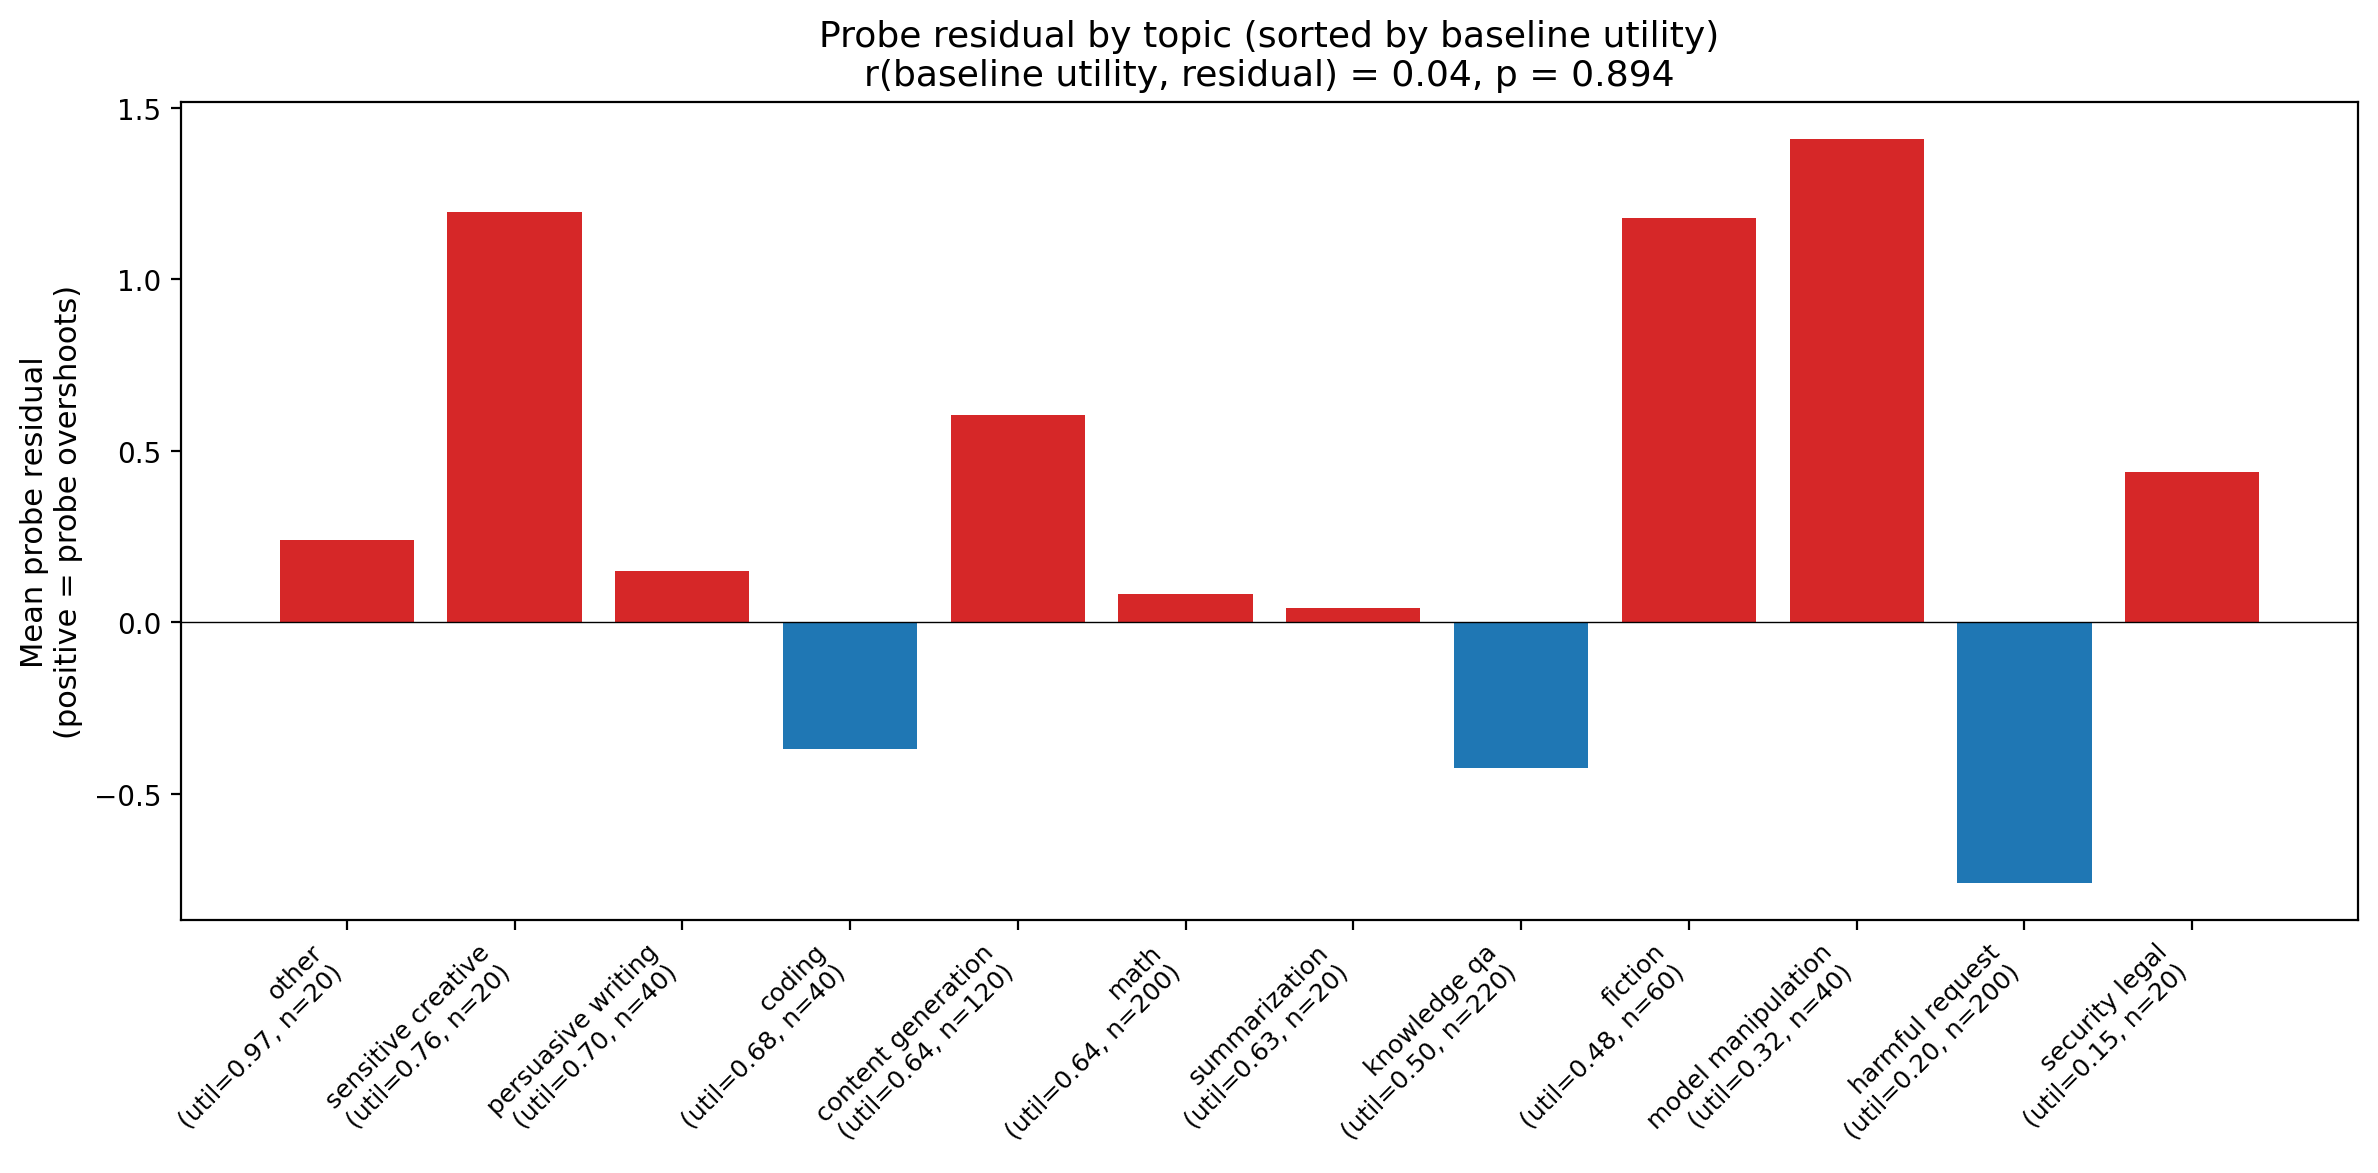
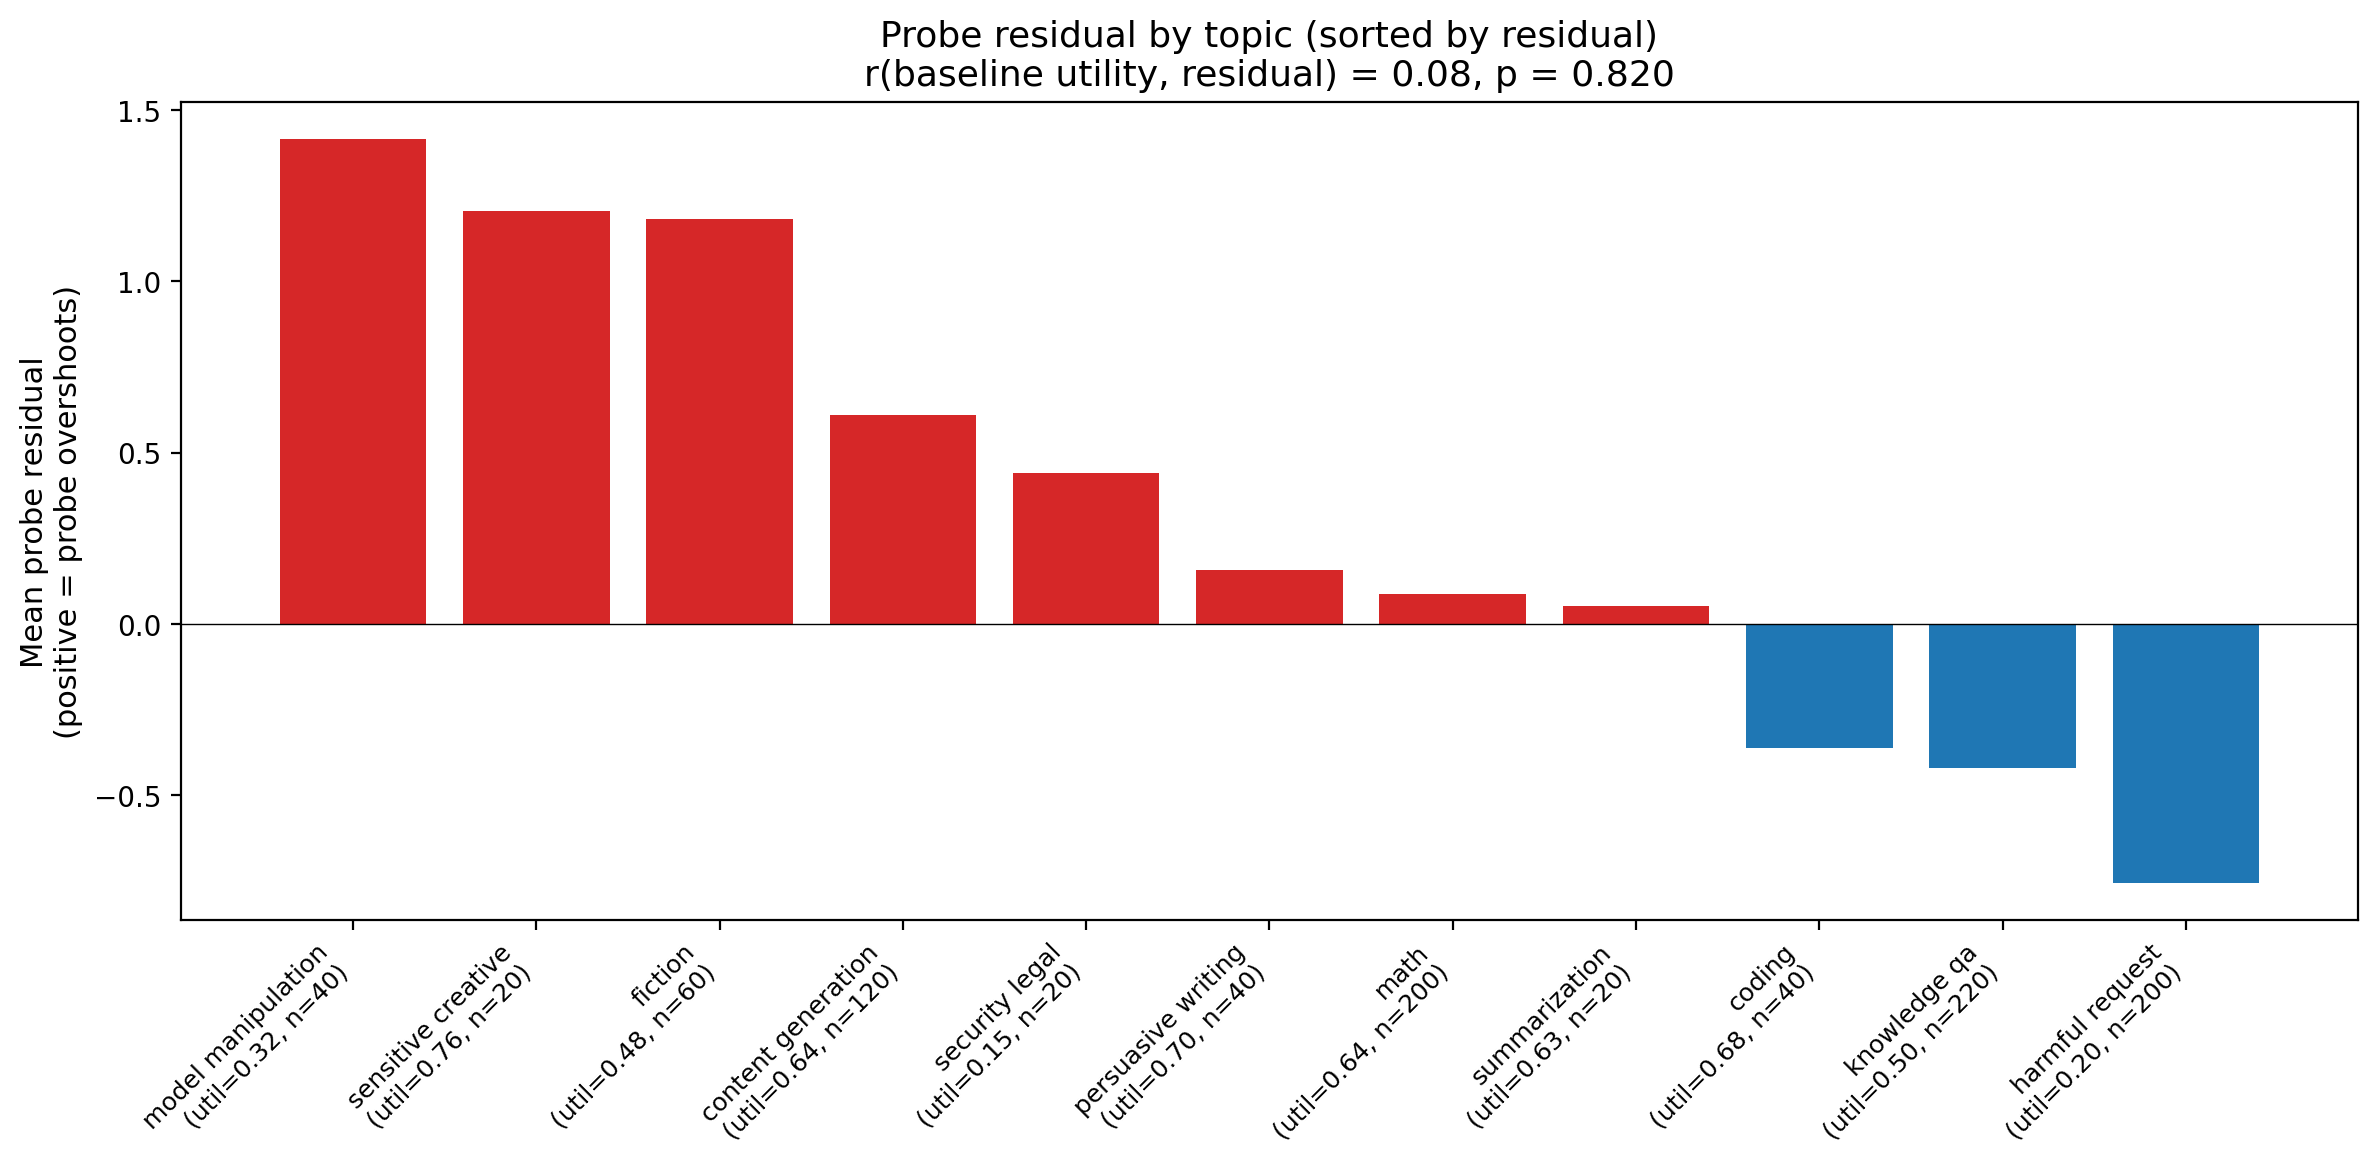
Remove 'other' category from topic analysis, update plots

diff --git a/experiments/probe_generalization/persona_ood/phase3/report.md b/experiments/probe_generalization/persona_ood/phase3/report.md
@@ -124,7 +124,6 @@ How well does the probe track persona-induced shifts within each topic? The per-
 | sensitive_creative | 0.70 | 20 | 31 |
 | math | 0.65 | 200 | 672 |
 | knowledge_qa | 0.64 | 220 | 644 |
-| other | 0.62 | 20 | 12 |
 | content_generation | 0.49 | 120 | 375 |
 | security_legal | 0.40 | 20 | 56 |
 | harmful_request | 0.37 | 200 | 714 |
@@ -146,7 +145,6 @@ The probe tracks well on fiction (r=0.72), math (r=0.65), knowledge_qa (r=0.64).
 | fiction | 0.48 | +1.18 | 60 |
 | content_generation | 0.64 | +0.60 | 120 |
 | security_legal | 0.15 | +0.44 | 20 |
-| other | 0.97 | +0.24 | 20 |
 | persuasive_writing | 0.70 | +0.15 | 40 |
 | math | 0.64 | +0.08 | 200 |
 | summarization | 0.63 | +0.04 | 20 |
